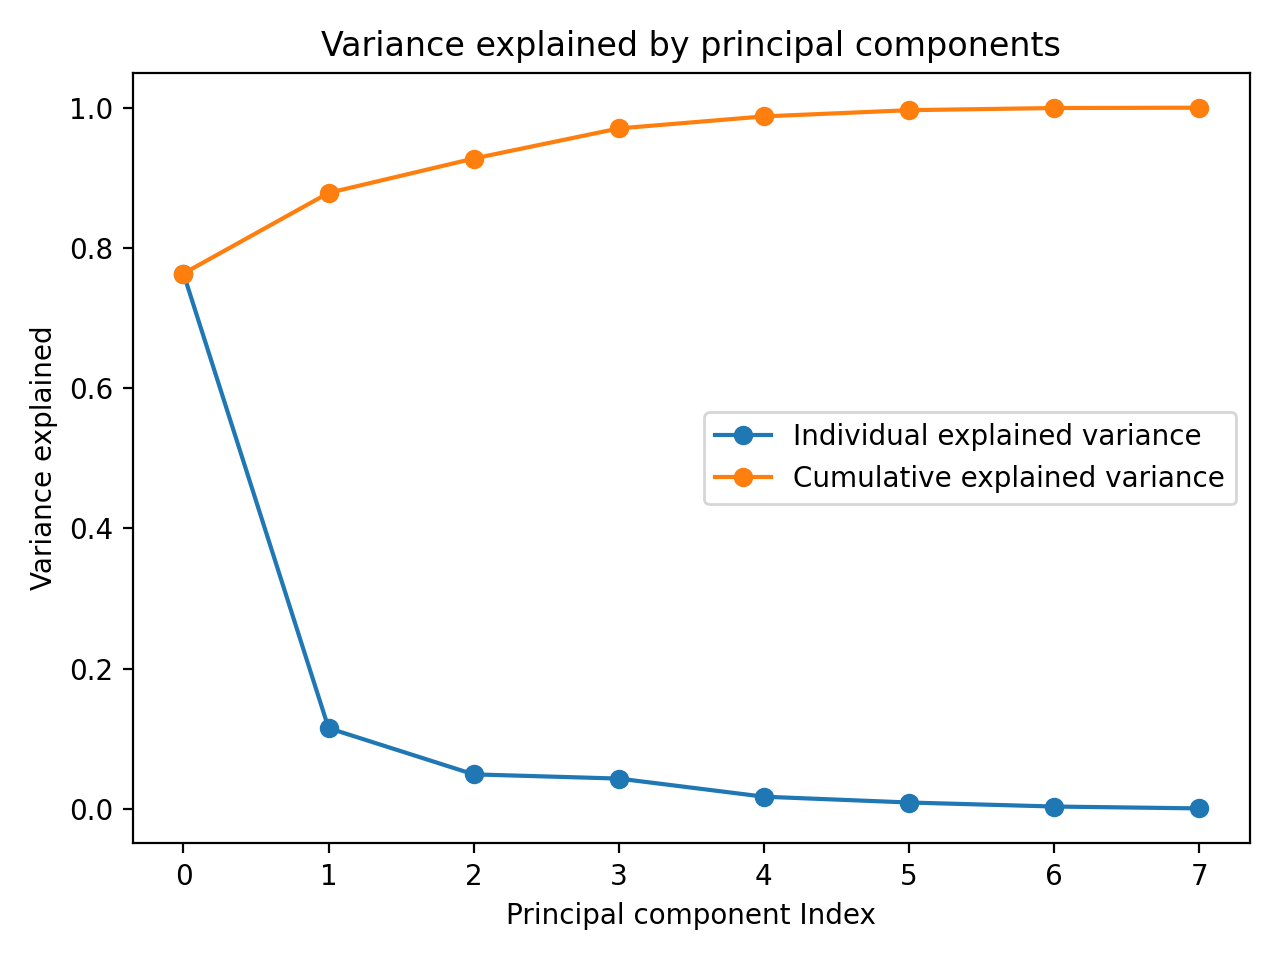
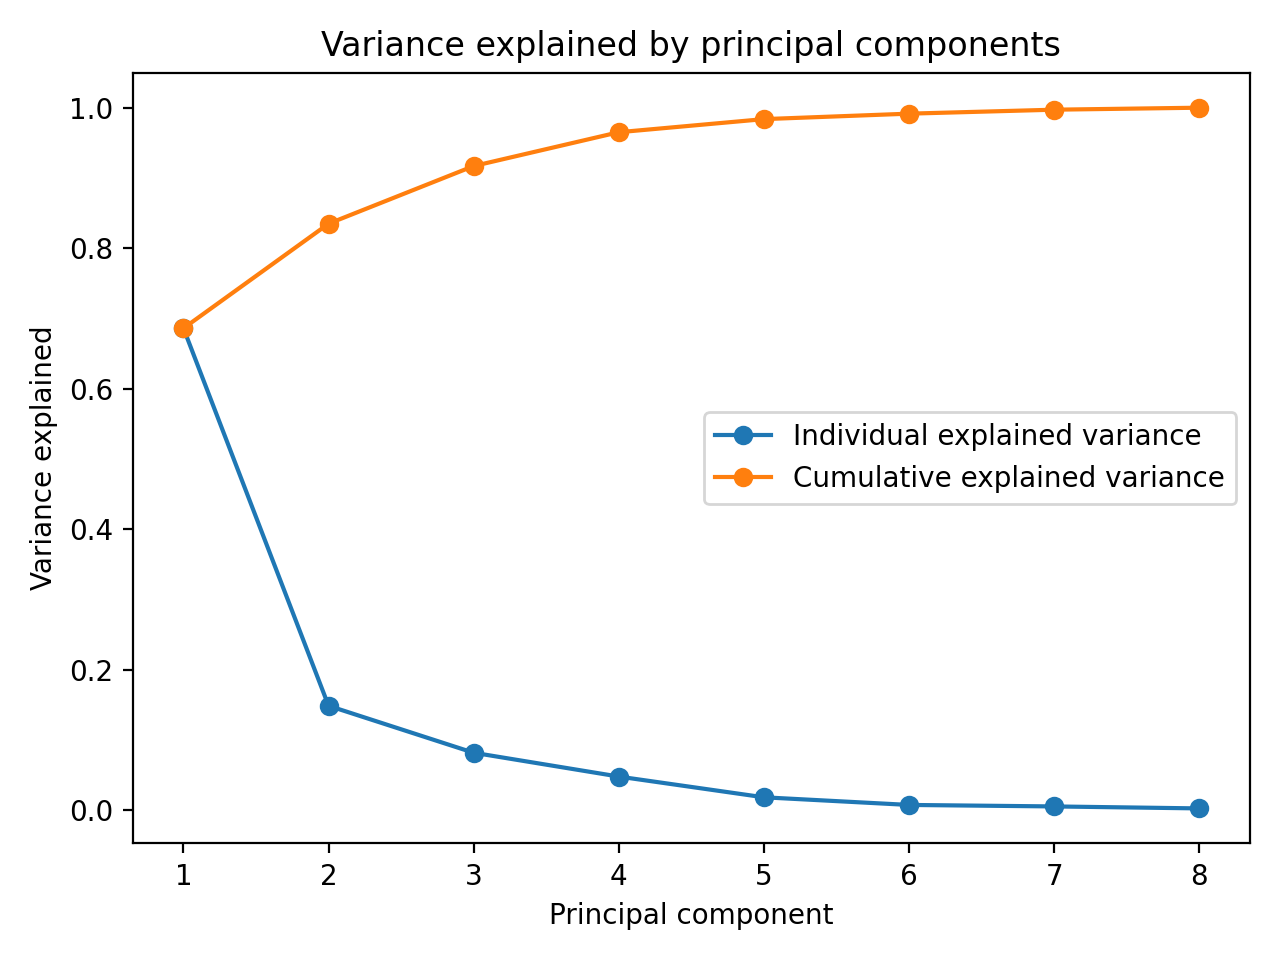
adding and implementing submodules

diff --git a/scripts/K_ex2_1_3.py b/scripts/K_ex2_1_3.py
@@ -1,6 +1,8 @@
 # ----------------------------------------------------------------------------
-# This script plot the variance explained ratio / variance explained by
-# principal components using sklearn modules.
+# This script computes the PCAs of X (NxM matrix = Observations x Attributes)
+# usking sklearn's decomposition (WITHOUT SCALING) and converts it to a 
+# dataframe (Z) AND plots the variance explained ratio / variance explained 
+# vs PCAs
 # 
 # ML tags: Variance Explained, PCA, SVD, preprocessing data, scaling data
 #
@@ -23,21 +25,19 @@ from sklearn.preprocessing import StandardScaler
 from sklearn.decomposition import PCA
 
 close('all')
-save_figure = True
+
+plot_explained_variance_ratio   = False
+save_figure                     = True
 
 
 # %%
 
-''' 
-When scaling the dataset, the explained variance varies from the course script
-where linear algebra is excecuted - you should follow up on this step! What 
-does the StandardScaler() do?
-'''
-
 # Scale/standardize the datasat (=subtract mean value from data)
+'''
 # (transform: mean value is subtracted to transform the data to center, and
-# scaled by dividing non-constant features by their standard deviation)
-# Scaled data has zero mean and unit variance
+# scaled by dividing non-constant features by their standard deviation).
+# Note: Scaled data has zero mean and unit variance
+'''
 scaler  = StandardScaler().fit(X)
 X_std   = scaler.transform(X)
 # X_std   = (X-scaler.mean_)/scaler.scale_ #equivalent to the transform funciton
@@ -46,12 +46,16 @@ X_std   = scaler.transform(X)
 
 # Linear dimensionality reduction by SVD (=PCA by computing SVD of Y)
 # (X is centered but not scaled before applying the SVD)
-pca     = PCA()
-pca.fit(X)                      # fits the model with X
-X_pca   = pca.fit_transform(X)  # fit the model with X and returns X after
-                                # applying dimensionality reduction on X.
-X_std_pca = pca.fit_transform(X_std)                                        
+pca         = PCA()
+pca.fit(X)                          # fits the model with X
+X_pca       = pca.fit_transform(X)  # fit the model with X and returns X after
+                                    # applying dimensionality reduction on X.
+X_std_pca   = pca.fit_transform(X_std)                                        
 
+# Convert X_pca to a dataframe
+Z = pd.DataFrame(data = X_pca,
+                 index = range(0,len(X_pca)),
+                 columns = ['PC{}'.format(i) for i in range(1, X_pca.shape[1]+1)])
 
 
 # Determine explained variance explained_variance_ratio_ attri
@@ -65,26 +69,27 @@ exp_var_pca     = pca.explained_variance_ratio_
 # for visualizing the variance explained by each PC
 cum_sum_eigenvalues = np.cumsum(exp_var_pca)
 
-# Plot variance explained
-figure()
-plot(range(1,len(exp_var_pca)+1), exp_var_pca, 'o-', label='Individual explained variance')
-plot(range(1,len(cum_sum_eigenvalues)+1), cum_sum_eigenvalues,'o-',label='Cumulative explained variance')
+if plot_explained_variance_ratio:
+    # Plot variance explained
+    figure()
+    plot(range(1,len(exp_var_pca)+1), exp_var_pca, 'o-', label='Individual explained variance')
+    plot(range(1,len(cum_sum_eigenvalues)+1), cum_sum_eigenvalues,'o-',label='Cumulative explained variance')
+    
+    legend(loc='best')
+    
+    
+    title('Variance explained by principal components');
+    xlabel('Principal component');
+    ylabel('Variance explained');
+    tight_layout()
+    show()
 
-legend(loc='best')
-
-
-title('Variance explained by principal components');
-xlabel('Principal component');
-ylabel('Variance explained');
-tight_layout()
-show()
-
-if save_figure:
-    # Save figure in the 'figures' directory
-    exerciseName    = splitext(basename(__file__))[0]
-    saveFigTitle    = exerciseName + '_' + 'variance_explained'
-    saveFigPath     = join('../figures/',saveFigTitle)
-    savefig(saveFigPath, dpi = 200)
-    print('\'{}\' saved as figure'.format(saveFigTitle))   
+    if save_figure:
+        # Save figure in the 'figures' directory
+        exerciseName    = splitext(basename(__file__))[0]
+        saveFigTitle    = exerciseName + '_' + 'variance_explained'
+        saveFigPath     = join('../figures/',saveFigTitle)
+        savefig(saveFigPath, dpi = 200)
+        print('\'{}\' saved as figure'.format(saveFigTitle))   
 
 print('Ran Exercise 2.1.3 \n')

diff --git a/scripts/K_ex2_1_2.py b/scripts/K_ex2_1_2.py
@@ -1,6 +1,7 @@
 # ----------------------------------------------------------------------------
-# Plots 2 unnormalized attributes against each and colors with the 
-# classification. Data imported (and structured) in K_ex2_1_1
+# Plots all combinations of unnormalized attributes/features against each and 
+# colors with respect to the classification. 
+# Data imported (and structured) in K_ex2_1_1
 #
 # i -- attribute plottet on the 1st axis
 # j -- attribute plottet on the 2nd axis
@@ -12,81 +13,47 @@
 # exercise 2.1.2 (course 02450 DTU 2018)
 # ----------------------------------------------------------------------------
 
+# custom-made modules
+from submodules.plot_ML_course import subplot_all_combinations
 # Imports the numpy, xlrd and pandas package, then runs the ex2_1_1 code
 from K_ex2_1_1 import *
 # (requires data structures from ex. 2.1.1)
 
-from matplotlib.pyplot import figure, plot, title, legend, xlabel, ylabel, \
-    show, savefig, close, subplots
+# standard modules
+
 from os.path import basename, splitext, join
-from itertools import combinations
-from math import ceil, floor
 
-
-# N length of y
+# N length of y / number of attributes
 # M number of attribute names
 # C number of classes
 
 # %%
 # Data attributes to be plotted
-i = 0
-j = 1
+# i = 0
+# j = 1
 
 ##
 # Make a simple plot of the i'th attribute against the j'th attribute
 # plot(X.iloc[:, i], X.iloc[:, j], 'o')
 
 # %%
-# Make another more fancy plot that includes legend, class labels, 
-# attribute names, and a title.
+# Plot all combinations of features / attributes
+# including legend, class labels, attribute names, and a title.
 
-# Iterate over all possible 2D combinations of attributes and saveplot
-combinations_ij     = list(combinations(range(M),2))
-n_combinations_ij   = len(list(combinations_ij))
 
-# nrows, ncols    = 3, ceil(n_combinations_ij/3)
-nrows           = ceil(np.sqrt(n_combinations_ij))
-ncols           = floor(np.sqrt(n_combinations_ij))
-fig, axs        = subplots(nrows = nrows, ncols = ncols)#, sharex=True)
-fig.set_figwidth(ncols*3) #no need to determine height
-fig.set_figheight(nrows*3)
-# fig.subplots_adjust(wspace = 0, hspace=0.5)  
+subplot_all_combinations(X, y, 
+                         classNames, attributeNames,
+                         n_attributes = M, 
+                         n_classes = C,
+                         fig_title = 'NanoNose data')
 
-title('NanoNose data')
-k = 0
-for combination in combinations_ij:
-    i = combination[0]
-    j = combination[1]
-
-    # iterate through all classes and make a mask
-    for c in range(C):
-        # select indices belonging to class c:
-        # (returns an df with Booleans)
-        class_mask      = (y['class']==c) 
-        X_attribute_i   = X.iloc[:, i][class_mask]
-        X_attribute_j   = X.iloc[:, j][class_mask]
-        # plot(X_attribute_i, X_attribute_j, 'o')
-        axs.flatten()[k].plot(X_attribute_i, X_attribute_j, 'o', label = classNames[c])
-        # axs.flatten()[k].set_aspect('equal')
-    
-
-    axs.flatten()[k].set_xlabel(attributeNames[i])
-    axs.flatten()[k].set_ylabel(attributeNames[j])
-    k += 1
-       
-    
-axs[0,0].legend(bbox_to_anchor=(-1, 1), loc='upper left', borderaxespad=0.)
-fig.tight_layout()      
-
-show()
-# close('all')  
 # Save figure in the 'figures' directory
-exerciseName    = splitext(basename(__file__))[0]
-# saveFigTitle = exerciseName + '_' + 'attr' + '_' + attributeNames[i] + 'vs' + attributeNames[j]
-saveFigTitle    = exerciseName + '_' + 'all_combinations_of_attr'
+# close('all')  
+exerciseName    = splitext(basename(__file__))[0]    
+saveFigTitle    = exerciseName + '_' + 'all_combinations_of_attr' 
 saveFigPath     = join('../figures/',saveFigTitle)
 savefig(saveFigPath, dpi = 200)
-print('\'{}\ saved as figure'.format(saveFigTitle))    
-print('Ran Exercise 2.1.2 \n')
+print('\'{}\ saved as figure'.format(saveFigTitle))   
+# print('Ran Exercise 2.1.2 \n')
 
 

diff --git a/scripts/K_ex2_1_4.py b/scripts/K_ex2_1_4.py
@@ -1,37 +1,62 @@
-# exercise 2.1.4
+# ----------------------------------------------------------------------------
+# This script plot the variance explained ratio / variance explained by
+# principal components using sklearn modules.
+# 
+# ML tags: Variance Explained, PCA, SVD, preprocessing data, scaling data
+#
+# 2021 celiacailloux@gmail.com
+#
+# 
+# exercise 2.1.4 (course 02450 DTU 2018)
+# ----------------------------------------------------------------------------
+
 # (requires data structures from ex. 2.2.1 and 2.2.3)
-from ex2_1_1 import *
+from K_ex2_1_1 import *
+from K_ex2_1_3 import *
+from submodules.plot_ML_course import subplot_all_combinations
 
 from matplotlib.pyplot import figure, plot, title, xlabel, ylabel, show, legend
-from scipy.linalg import svd
 
-# Subtract mean value from data
-Y = X - np.ones((N,1))*X.mean(0)
-
-# PCA by computing SVD of Y
-U,S,V = svd(Y,full_matrices=False)
-V = V.T
-# Project the centered data onto principal component space
-Z = Y @ V
-
-
+# %%
 # Indices of the principal components to be plotted
 i = 0
 j = 1
 
-# Plot PCA of the data
+print('Type of Z: {}'.format(type(Z)))
+print('Shape of Z: {}'.format(Z.shape))
+
+# %%
+''' 
+Plotting PCAs against each other can explain most of the variance in a data 
+set. Below the the ith and jth principal components are plotted against each 
+other.
+'''
+
+# Plot PCAs of the data against each
 f = figure()
 title('NanoNose data: PCA')
 #Z = array(Z)
 for c in range(C):
-    # select indices belonging to class c:
-    class_mask = y==c
-    plot(Z[class_mask,i], Z[class_mask,j], 'o')
+    # select indices belonging to class c by masking:
+    class_mask      = (y['class']==c) 
+    Z_i   = X.iloc[:, i][class_mask] # masking a pandas dataframe
+    Z_j   = X.iloc[:, j][class_mask]    
+    plot(Z_i, Z_j, 'o')
+    
 legend(classNames)
-xlabel('PC{0}'.format(i+1))
-ylabel('PC{0}'.format(j+1))
+xlabel(Z.columns.tolist()[i])
+ylabel(Z.columns.tolist()[j])
+# xlabel('PC{0}'.format(i+1))
+# ylabel('PC{0}'.format(j+1))
 
-# Output result to screen
-show()
+# # Output result to screen
+# show()
 
-print('Ran Exercise 2.1.4')
+subplot_all_combinations(Z, y, 
+                         classNames, 
+                         attributeNames = Z.columns,
+                         n_attributes = M, 
+                         n_classes = C,
+                         fig_title = 'NanoNose data')
+
+print('Ran Exercise 2.1.4\n')
